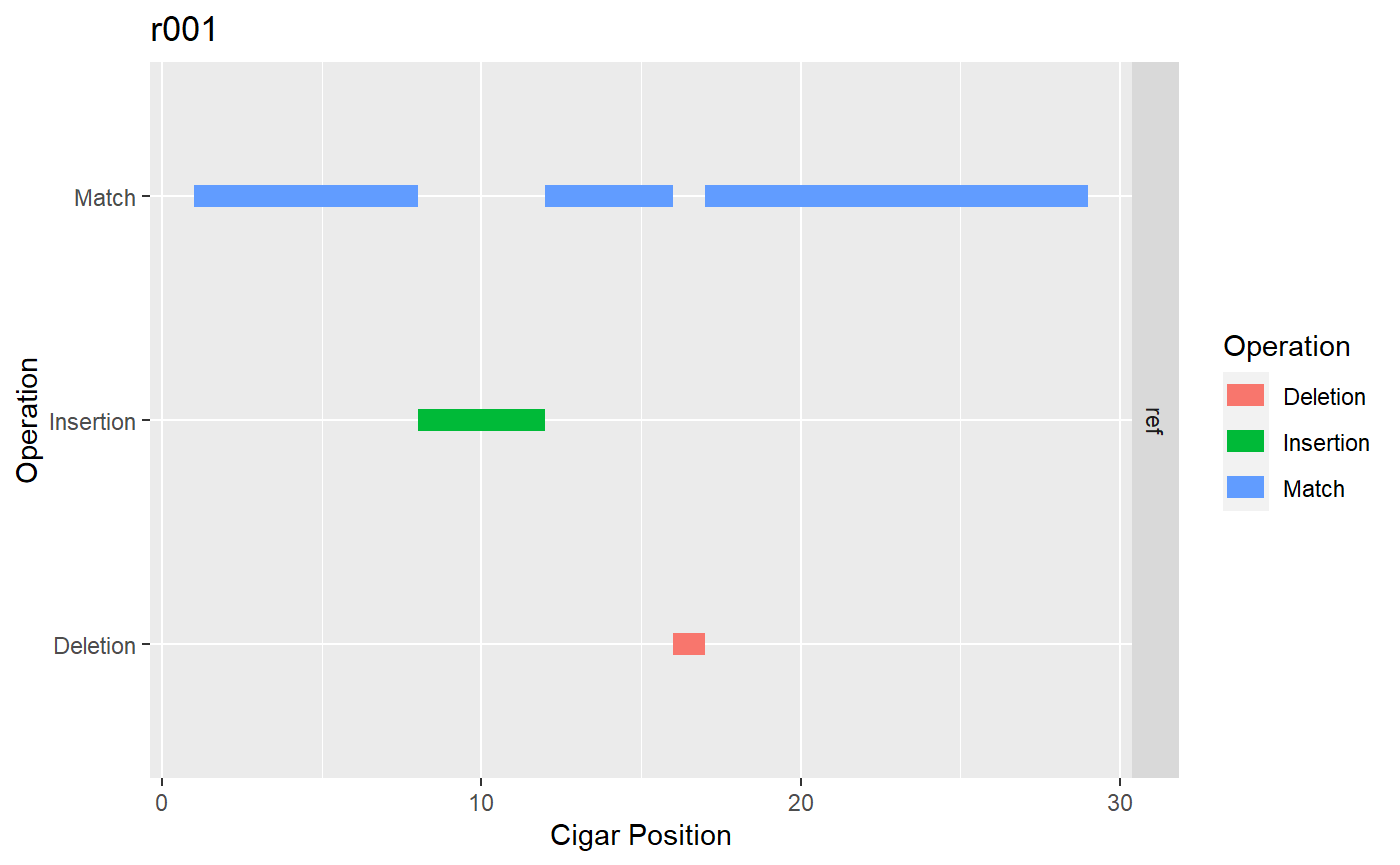
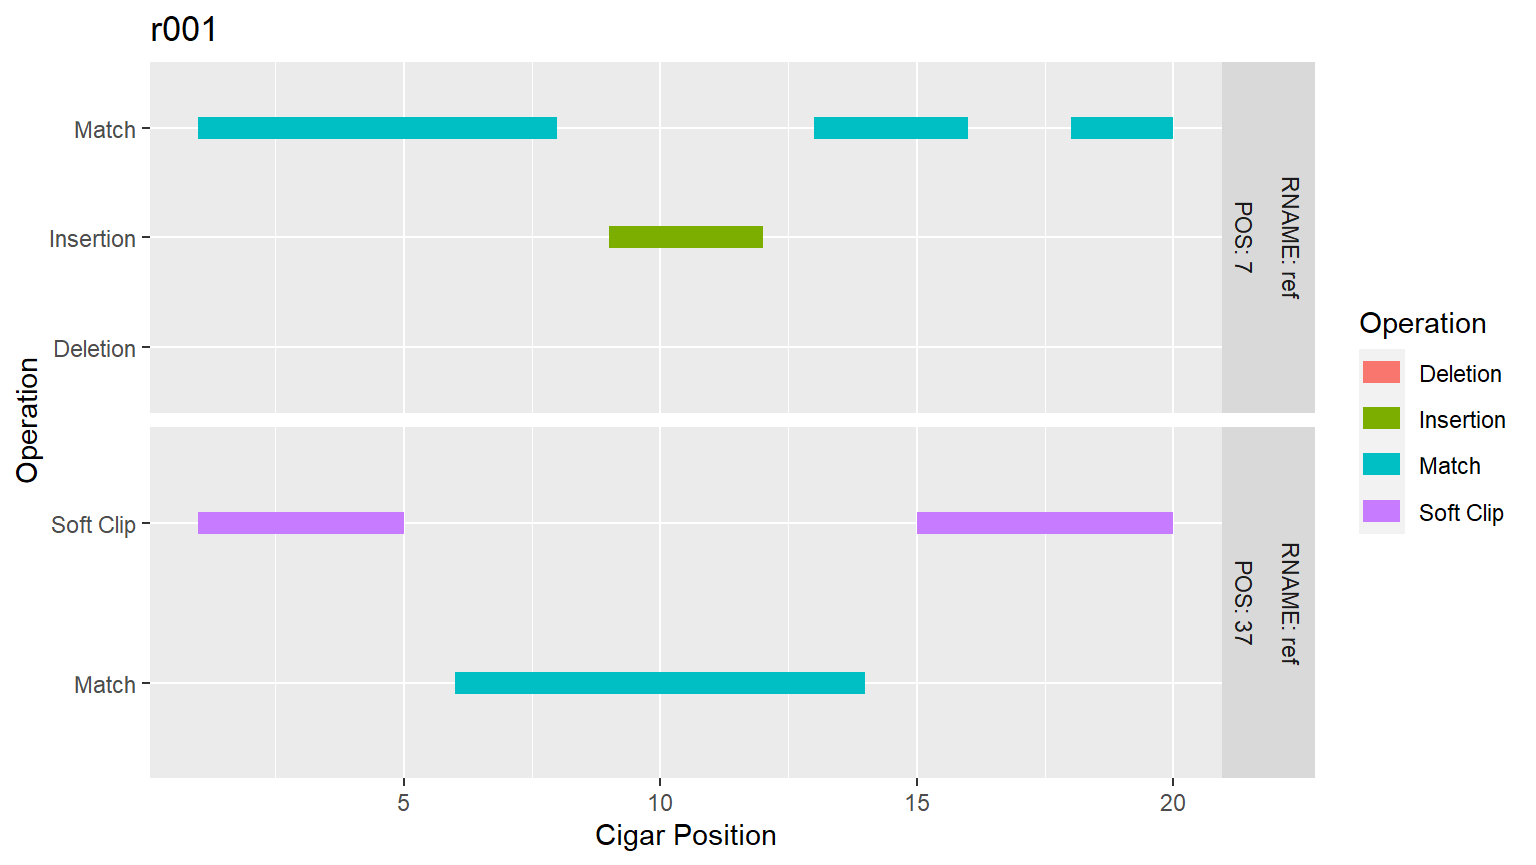
Fixed the overlapping cigar issue. Improved CIGAR article.

diff --git a/docs/articles/cigar.html b/docs/articles/cigar.html
@@ -106,7 +106,7 @@
 <span class="no">toy</span> <span class="kw">&lt;-</span> <span class="fu"><a href="../reference/read_sam.html">read_sam</a></span>(<span class="fu"><a href="https://rdrr.io/r/base/system.file.html">system.file</a></span>(<span class="st">"extdata"</span>, <span class="st">"toy.sam"</span>, <span class="kw">package</span> <span class="kw">=</span> <span class="st">"utilitarian"</span>))
 
 <span class="no">toy</span>
-<span class="co">#&gt; # A tibble: 12 x 11</span>
+<span class="co">#&gt; # A tibble: 13 x 11</span>
 <span class="co">#&gt;    QNAME  FLAG RNAME   POS  MAPQ CIGAR    RNEXT PNEXT  TLEN SEQ        QUAL     </span>
 <span class="co">#&gt;    &lt;chr&gt; &lt;dbl&gt; &lt;chr&gt; &lt;dbl&gt; &lt;dbl&gt; &lt;chr&gt;    &lt;chr&gt; &lt;dbl&gt; &lt;dbl&gt; &lt;chr&gt;      &lt;chr&gt;    </span>
 <span class="co">#&gt;  1 r001    163 ref       7    30 8M4I4M1~ =        37    39 TTAGATAAA~ *        </span>
@@ -114,13 +114,14 @@
 <span class="co">#&gt;  3 r003      0 ref       9    30 5H6M     *         0     0 AGCTAA     *        </span>
 <span class="co">#&gt;  4 r004      0 ref      16    30 6M14N1I~ *         0     0 ATAGCTCTC~ *        </span>
 <span class="co">#&gt;  5 r003     16 ref      29    30 6H5M     *         0     0 TAGGC      *        </span>
-<span class="co">#&gt;  6 r001     83 ref      37    30 9M       =         7   -39 CAGCGCCAT  *        </span>
+<span class="co">#&gt;  6 r001     83 ref      37    30 5S9M6S   =         7   -39 CAGCGCCAT  *        </span>
 <span class="co">#&gt;  7 x1        0 ref2      1    30 20M      *         0     0 aggttttat~ ????????~</span>
 <span class="co">#&gt;  8 x2        0 ref2      2    30 21M      *         0     0 ggttttata~ ????????~</span>
 <span class="co">#&gt;  9 x3        0 ref2      6    30 9M4I13M  *         0     0 ttataaaac~ ????????~</span>
 <span class="co">#&gt; 10 x4        0 ref2     10    30 25M      *         0     0 CaaaTaatt~ ????????~</span>
 <span class="co">#&gt; 11 x5        0 ref2     12    30 24M      *         0     0 aaTaattaa~ ????????~</span>
-<span class="co">#&gt; 12 x6        0 ref2     14    30 23M      *         0     0 Taattaagt~ ????????~</span></pre></body></html></div>
+<span class="co">#&gt; 12 x6        0 ref2     14    30 23M      *         0     0 Taattaagt~ ????????~</span>
+<span class="co">#&gt; 13 x3        0 ref      22    30 4S5M2I2~ *         0     0 ttataaaac~ ????????~</span></pre></body></html></div>
 </div>
 <div id="create-tidy-cigar-data" class="section level2">
 <h2 class="hasAnchor">
@@ -137,26 +138,26 @@
 <span class="no">toy.tc</span> <span class="kw">&lt;-</span> <span class="fu"><a href="../reference/tidy_cigar.html">tidy_cigar</a></span>(<span class="no">toy</span>)
 
 <span class="no">toy.tc</span>
-<span class="co">#&gt; # A tibble: 31 x 7</span>
-<span class="co">#&gt; # Groups:   QNAME, RNAME [10]</span>
-<span class="co">#&gt;    QNAME RNAME  MAPQ CIGARstart CIGARend operation Operation</span>
-<span class="co">#&gt;    &lt;chr&gt; &lt;chr&gt; &lt;dbl&gt;      &lt;dbl&gt;    &lt;dbl&gt; &lt;chr&gt;     &lt;chr&gt;    </span>
-<span class="co">#&gt;  1 r001  ref      30          1        8 M         Match    </span>
-<span class="co">#&gt;  2 r001  ref      30          8       12 I         Insertion</span>
-<span class="co">#&gt;  3 r001  ref      30         12       16 M         Match    </span>
-<span class="co">#&gt;  4 r001  ref      30         16       17 D         Deletion </span>
-<span class="co">#&gt;  5 r001  ref      30         17       20 M         Match    </span>
-<span class="co">#&gt;  6 r001  ref      30         20       29 M         Match    </span>
-<span class="co">#&gt;  7 r002  ref      30          1        1 S         Soft Clip</span>
-<span class="co">#&gt;  8 r002  ref      30          1        3 I         Insertion</span>
-<span class="co">#&gt;  9 r002  ref      30          3        9 M         Match    </span>
-<span class="co">#&gt; 10 r002  ref      30          9       10 P         Padding  </span>
-<span class="co">#&gt; # ... with 21 more rows</span></pre></body></html></div>
+<span class="co">#&gt; # A tibble: 39 x 9</span>
+<span class="co">#&gt; # Groups:   QNAME, RNAME, POS [13]</span>
+<span class="co">#&gt;    QNAME RNAME  MAPQ   POS POSstart POSend CIGARstart CIGARend Operation</span>
+<span class="co">#&gt;    &lt;chr&gt; &lt;chr&gt; &lt;dbl&gt; &lt;dbl&gt;    &lt;dbl&gt;  &lt;dbl&gt;      &lt;dbl&gt;    &lt;dbl&gt; &lt;chr&gt;    </span>
+<span class="co">#&gt;  1 r001  ref      30     7        7     14          1        8 Match    </span>
+<span class="co">#&gt;  2 r001  ref      30     7       15     18          9       12 Insertion</span>
+<span class="co">#&gt;  3 r001  ref      30     7       19     22         13       16 Match    </span>
+<span class="co">#&gt;  4 r001  ref      30     7       23     23         17       17 Deletion </span>
+<span class="co">#&gt;  5 r001  ref      30     7       24     26         18       20 Match    </span>
+<span class="co">#&gt;  6 r001  ref      30    37       37     41          1        5 Soft Clip</span>
+<span class="co">#&gt;  7 r001  ref      30    37       42     50          6       14 Match    </span>
+<span class="co">#&gt;  8 r001  ref      30    37       51     56         15       20 Soft Clip</span>
+<span class="co">#&gt;  9 r002  ref      30     9        9      9          1        1 Soft Clip</span>
+<span class="co">#&gt; 10 r002  ref      30     9       10     11          2        3 Insertion</span>
+<span class="co">#&gt; # ... with 29 more rows</span></pre></body></html></div>
 </div>
 <div id="plot-a-cigar" class="section level2">
 <h2 class="hasAnchor">
 <a href="#plot-a-cigar" class="anchor"></a>Plot a CIGAR</h2>
-<p>Plotting a cigar from a single read in the tidied cigar table is done using <code><a href="../reference/plot_cigar.html">plot_cigar()</a></code> and specifying the read. Plots are facetted based on the references. Returns a plot.</p>
+<p>Plotting a cigar from a single read in the tidied cigar table is done using <code><a href="../reference/plot_cigar.html">plot_cigar()</a></code> and specifying the read. Plots are facetted based on the references and the mapped position of the read. Returns a plot.</p>
 <div class="sourceCode" id="cb4"><html><body><pre class="r"><span class="fu"><a href="../reference/plot_cigar.html">plot_cigar</a></span>(<span class="no">toy.tc</span>, <span class="st">"r002"</span>)</pre></body></html></div>
 <p><img src="cigar_files/figure-html/unnamed-chunk-4-1.png" width="700"></p>
 </div>
@@ -166,10 +167,22 @@
 <p>A wrapper around calling <code><a href="../reference/plot_cigar.html">plot_cigar()</a></code> on all the reads in the SAM file. Will warn and stop if more than 20 elements to be created, override this with the <code>lg=TRUE</code> argument.</p>
 <div class="sourceCode" id="cb5"><html><body><pre class="r"><span class="no">p</span> <span class="kw">&lt;-</span> <span class="fu"><a href="../reference/plot_all_cigars.html">plot_all_cigars</a></span>(<span class="no">toy.tc</span>)
 
-<span class="no">p</span><span class="kw">[[</span><span class="fl">1</span>]]</pre></body></html></div>
-<p><img src="cigar_files/figure-html/unnamed-chunk-5-1.png" width="700"></p>
-<div class="sourceCode" id="cb6"><html><body><pre class="r"><span class="no">p</span><span class="kw">[[</span><span class="fl">2</span>]]</pre></body></html></div>
-<p><img src="cigar_files/figure-html/unnamed-chunk-5-2.png" width="700"></p>
+<span class="no">toy</span>[<span class="no">toy</span>$<span class="no">QNAME</span> <span class="kw">==</span> <span class="st">"r001"</span>, <span class="st">"CIGAR"</span>]
+<span class="co">#&gt; # A tibble: 2 x 1</span>
+<span class="co">#&gt;   CIGAR     </span>
+<span class="co">#&gt;   &lt;chr&gt;     </span>
+<span class="co">#&gt; 1 8M4I4M1D3M</span>
+<span class="co">#&gt; 2 5S9M6S</span>
+<span class="no">p</span><span class="kw">[[</span><span class="st">"r001"</span>]]</pre></body></html></div>
+<p><img src="cigar_files/figure-html/unnamed-chunk-5-1.png" width="768"></p>
+<div class="sourceCode" id="cb6"><html><body><pre class="r"><span class="no">toy</span>[<span class="no">toy</span>$<span class="no">QNAME</span> <span class="kw">==</span> <span class="st">"x3"</span>, <span class="st">"CIGAR"</span>]
+<span class="co">#&gt; # A tibble: 2 x 1</span>
+<span class="co">#&gt;   CIGAR       </span>
+<span class="co">#&gt;   &lt;chr&gt;       </span>
+<span class="co">#&gt; 1 9M4I13M     </span>
+<span class="co">#&gt; 2 4S5M2I2D8M5S</span>
+<span class="no">p</span><span class="kw">[[</span><span class="st">"x3"</span>]]</pre></body></html></div>
+<p><img src="cigar_files/figure-html/unnamed-chunk-6-1.png" width="768"></p>
 </div>
   </div>
 

diff --git a/docs/articles/package-related.html b/docs/articles/package-related.html
@@ -107,12 +107,12 @@
 <div class="sourceCode" id="cb2"><html><body><pre class="r">
 <span class="fu"><a href="../reference/usePackage.html">usePackage</a></span>(<span class="st">"dichromat"</span>)
 <span class="co">#&gt; Package dichromat not found, installing...</span>
-<span class="co">#&gt; Installing package into 'C:/Users/AZetner/AppData/Local/Temp/RtmpmsuNa5/temp_libpath83e06f6327f7'</span>
+<span class="co">#&gt; Installing package into 'C:/Users/AZetner/AppData/Local/Temp/RtmpI7h1Sk/temp_libpath7ce017375815'</span>
 <span class="co">#&gt; (as 'lib' is unspecified)</span>
 <span class="co">#&gt; package 'dichromat' successfully unpacked and MD5 sums checked</span>
 <span class="co">#&gt; </span>
 <span class="co">#&gt; The downloaded binary packages are in</span>
-<span class="co">#&gt;  C:\Users\AZetner\AppData\Local\Temp\RtmpCUZsi6\downloaded_packages</span>
+<span class="co">#&gt;  C:\Users\AZetner\AppData\Local\Temp\Rtmpuou89j\downloaded_packages</span>
 <span class="co">#&gt; Loading Package dichromat...</span>
 <span class="co">#&gt; Loading required package: dichromat</span></pre></body></html></div>
 <p>Combine <code><a href="../reference/usePackage.html">usePackage()</a></code> with the <code>purrr</code> package to attempt to attach and (install if unavailable) multiple packages. Walk doesn’t return an output, only the secondary effects. In this case, an attached package from each of those in the character vector.</p>
